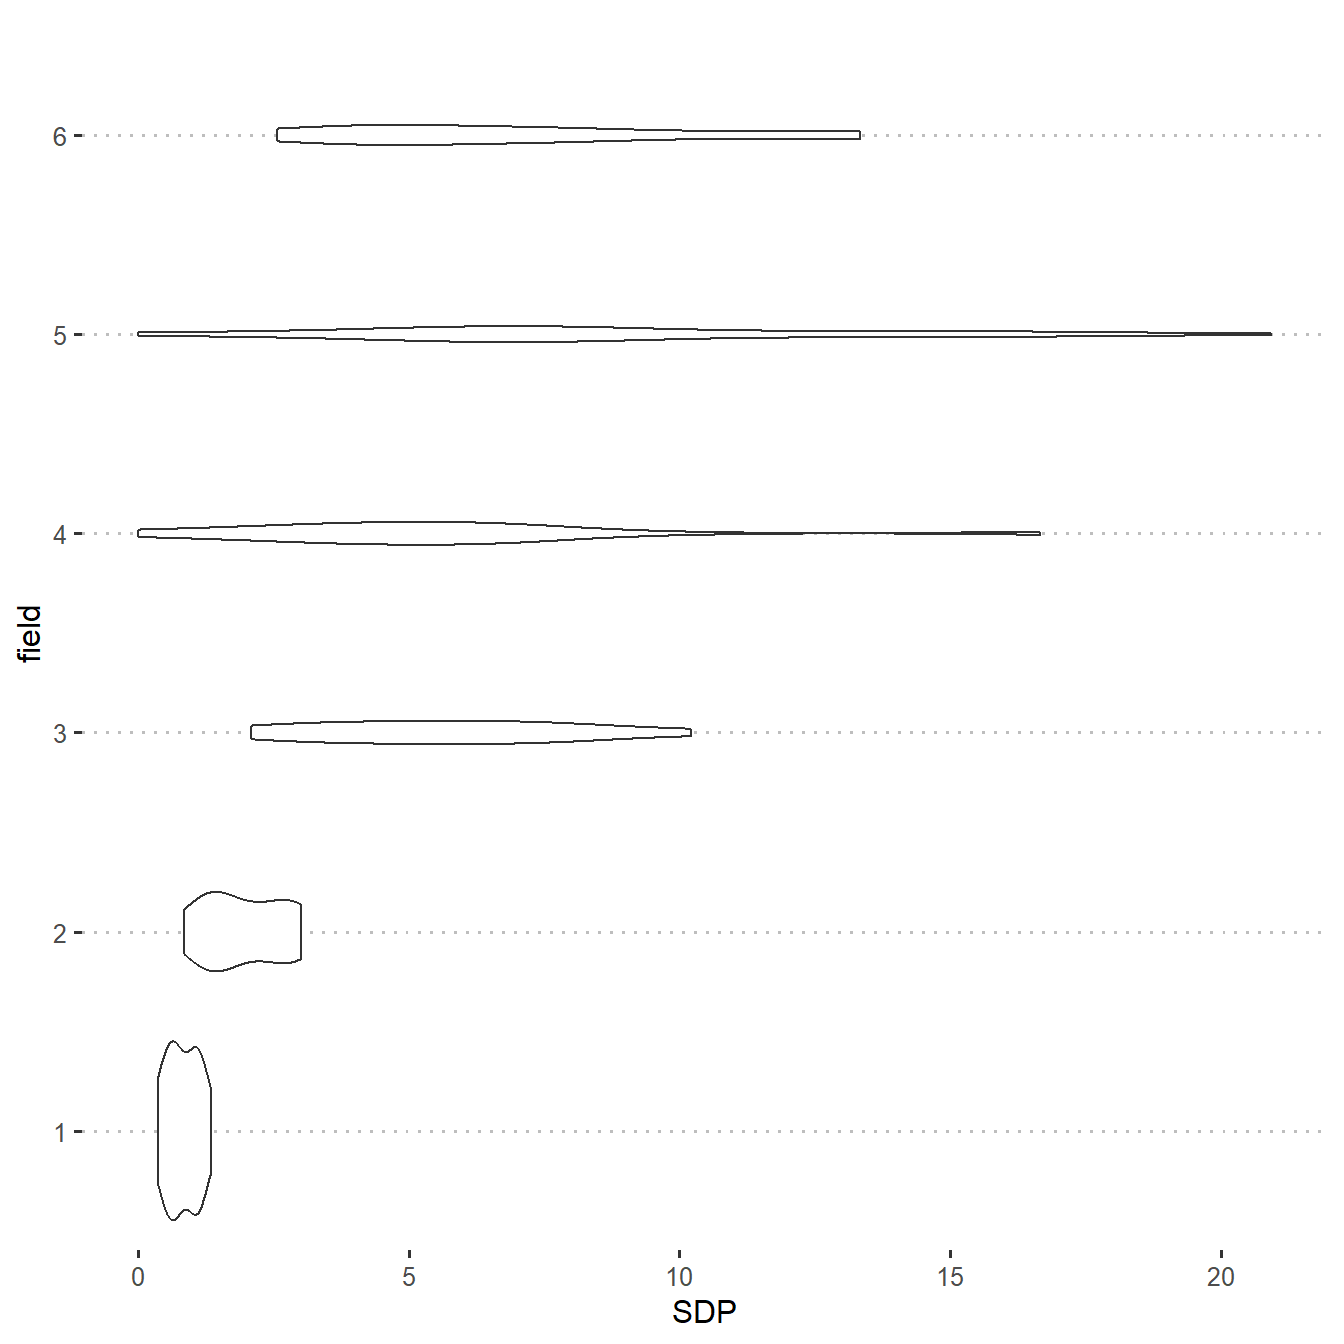
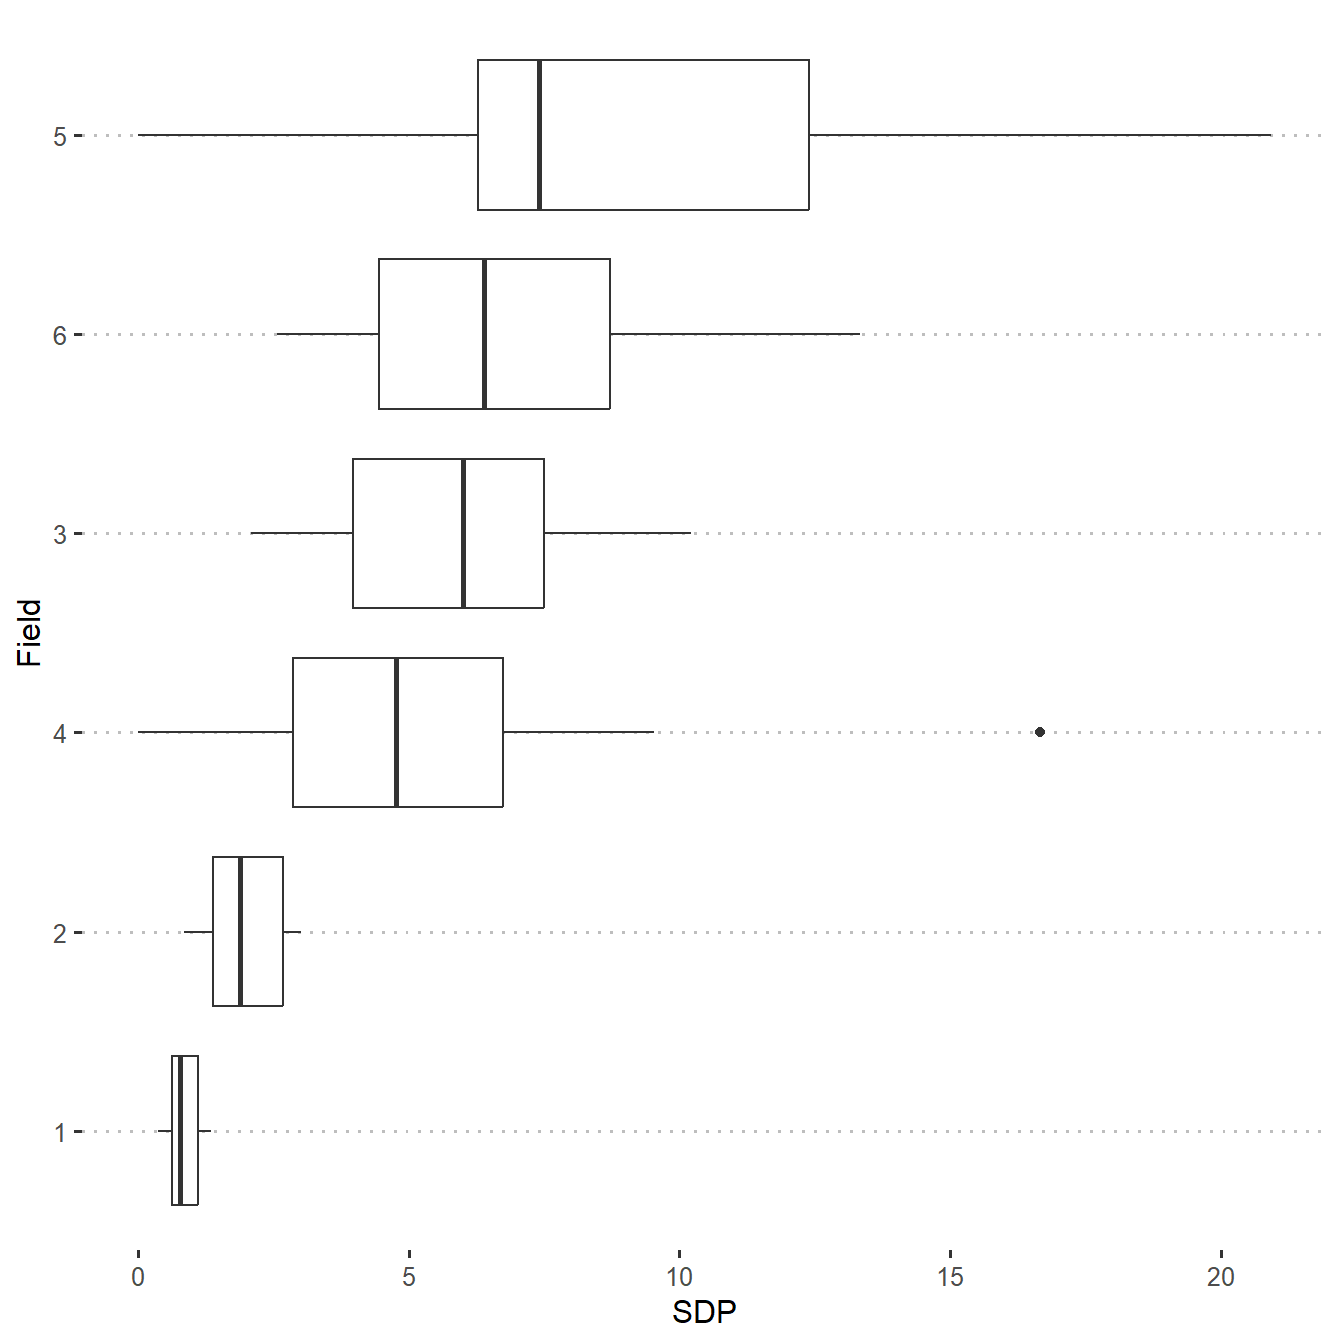
reknit data-viz page

diff --git a/data_viz.html b/data_viz.html
@@ -412,15 +412,15 @@ central_top_legend &lt;- theme(
 load(here(&quot;data/mod_dat.Rdata&quot;))
 sdp_dat &lt;- read_csv(here(&quot;data/sdp_data.csv&quot;),
                     show_col_types = FALSE) %&gt;% 
-                    arrange(field) %&gt;% 
-                    mutate(field = as_factor(field))</code></pre>
+                    arrange(field)</code></pre>
 </div>
 <div id="plot-severely-damaged-pod-indices" class="section level2">
 <h2>Plot severely damaged pod indices</h2>
 <p>Visualize peanut smut incidence in the fields.</p>
 <pre class="r"><code>ggplot(data = sdp_dat) +
-  aes(y = field, x = SDP) +
-  geom_violin()</code></pre>
+  aes(y = reorder(field, SDP), x = SDP) +
+  geom_boxplot() +
+  ylab(&quot;Field&quot;)</code></pre>
 <p><img src="data_viz_files/figure-html/sdp-incidence-1.png" width="60%" /></p>
 <pre class="r"><code>ggline(sdp_dat,
        x = &quot;field&quot;,
